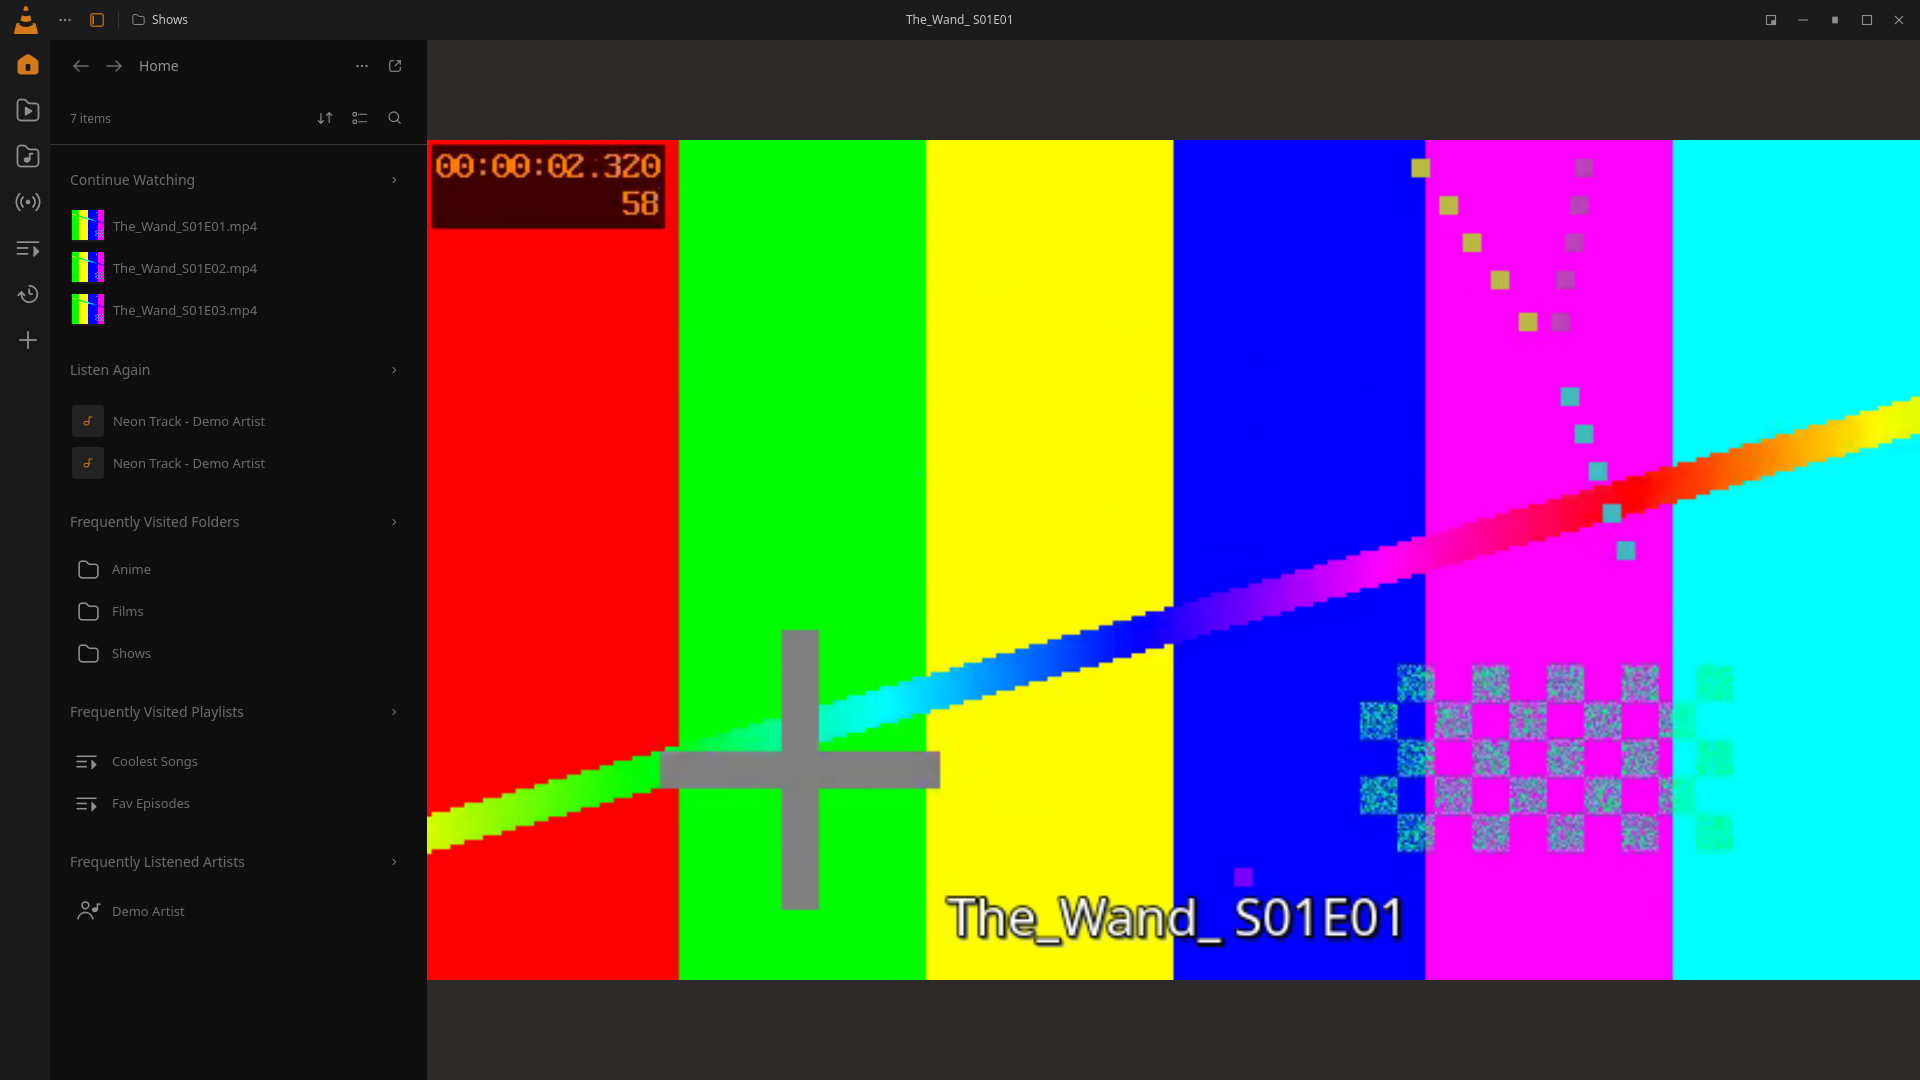
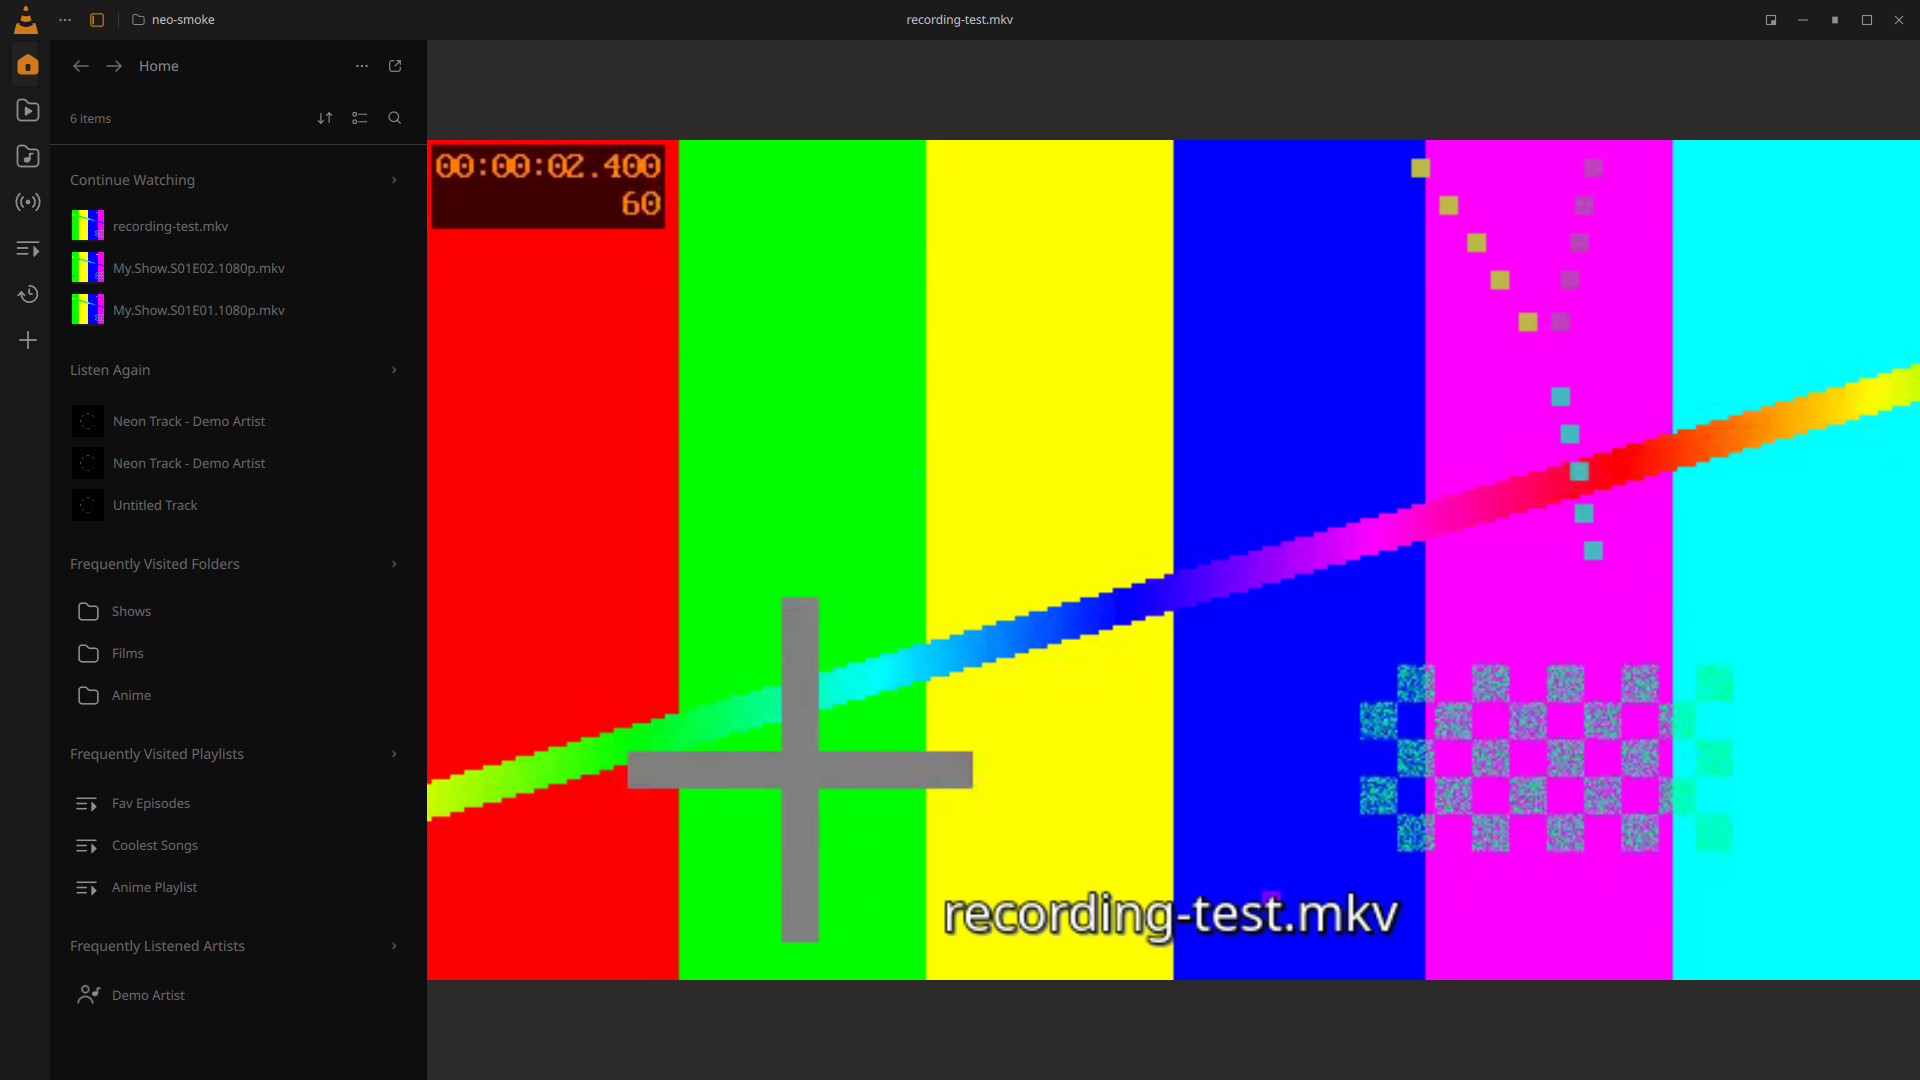
Refresh Home side pane comparison fixture

diff --git a/docs/figma-parity.md b/docs/figma-parity.md
@@ -101,7 +101,7 @@ Side-toolbar SVG audit (2026-10-24): zooming Figma's Playlists and Videos contro
 
 Music side-pane follow-up (2026-10-24): a direct `browser` comparison of the copied Figma prototype's Music categories and Songs → My Songs states confirms the 50 px rail, approximately 377 px pane, title row, count/toolbar row, divider and 44 px category rhythm. The prototype currently has no Albums/Artists/Genres detail states: directly clicking each category row leaves the view on Music categories. Their local detail screens are functional library views, but cannot be claimed as 1:1 against this Figma copy until destination designs exist. A local Albums fixture exposed an extra search button in the title row; it is now hidden in Figma side-pane mode, leaving search in the second toolbar row as in the reference. The isolated 3-track fixture verifies the breadcrumb `Music › Albums`, singular `1 item` count and `3 tracks` album row. [`music-sidebar-categories.png`](screenshots/music-sidebar-categories.png) records the current dark-theme categories state beside the prototype; its category icon column, label column and 44 px rows align. A fresh Songs detail capture with two tagged sample tracks verifies the corrected x=70 cover and x=112 title placement, breadcrumb start and right-aligned toolbar controls: [`music-sidebar-songs.png`](screenshots/music-sidebar-songs.png). The Figma MCP metadata request is currently rate-limited on the Starter seat; this comparison used the user's `browser` command and available prototype frames.
 
-Home side-pane polish (2026-10-24): a normalized side-by-side capture found the Home toolbar controls 10 px too far left, folder/playlist SVGs enlarging their row layout beyond the intended size, and section spacing drifting vertically through the page. The toolbar right inset is now 17 px; folder and playlist icons use a 25 px layout box with adjusted spacing so labels begin at x=62 like Figma. Section-specific top and bottom margins now align the headings and first rows for Continue Watching, Listen Again, Frequently Visited Folders and Frequently Visited Playlists to within 1 px in the 1920×1080 comparison. [`home-sidebar.png`](screenshots/home-sidebar.png) has been refreshed from the seeded local fixture; its generated video thumbnails and demo audio artwork differ from Figma's sample media.
+Home side-pane polish (2026-10-24): a normalized side-by-side capture found the Home toolbar controls 10 px too far left, folder/playlist SVGs enlarging their row layout beyond the intended size, and section spacing drifting vertically through the page. The toolbar right inset is now 17 px; folder and playlist icons use a 25 px layout box with adjusted spacing so labels begin at x=62 like Figma. Section-specific top and bottom margins now align the headings and first rows for Continue Watching, Listen Again, Frequently Visited Folders and Frequently Visited Playlists to within 1 px in the 1920×1080 comparison. A fresh `browser` CDP capture of Figma's `sidebar` component, `home` variant (`1106:5633`), showed three video, music and playlist rows; the earlier local fixture had only two music and playlist entries, compressing the lower sections. The refreshed [`home-sidebar.png`](screenshots/home-sidebar.png) uses three rows in those shelves and three visited folders, so the headings and row pitch can be compared directly. Its generated thumbnails and demo cover art remain test content.
 
 Home dashboard capture follow-up (2026-10-24): rebuilt and captured the full Home route at 1920×1080 after the rail visibility fix. The fresh [`home.webp`](screenshots/home.webp) shows the expanded 210 px rail, Home shelves, active video and lower-right mini-player. A focused VLC run confirms the Home dashboard content occupies 1710 px beside the rail; opening Home or Music as a side pane switches to a 50 px rail and 377 px panel, and returning to the player hides the rail. The captured color-bar videos and tagged demo tracks are fixtures; the like-for-like Figma screenshot comparison remains open.
 
